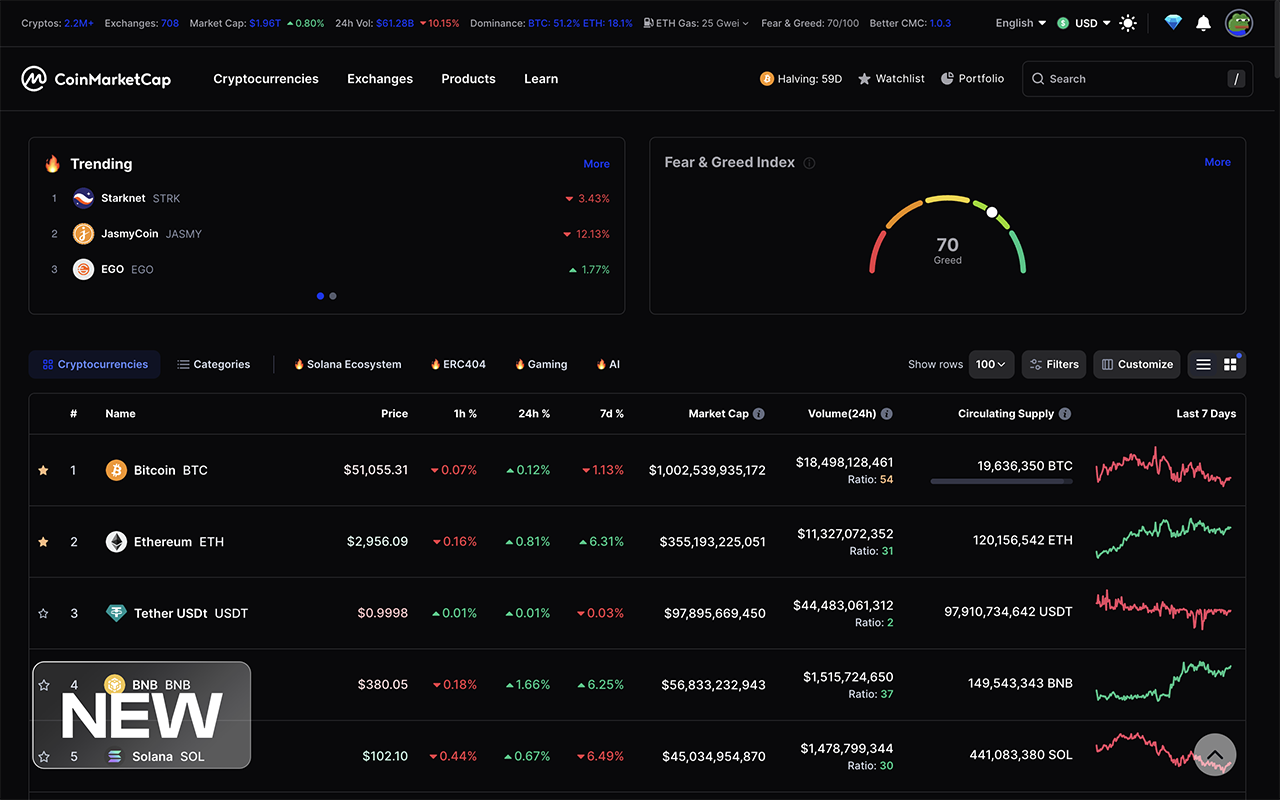
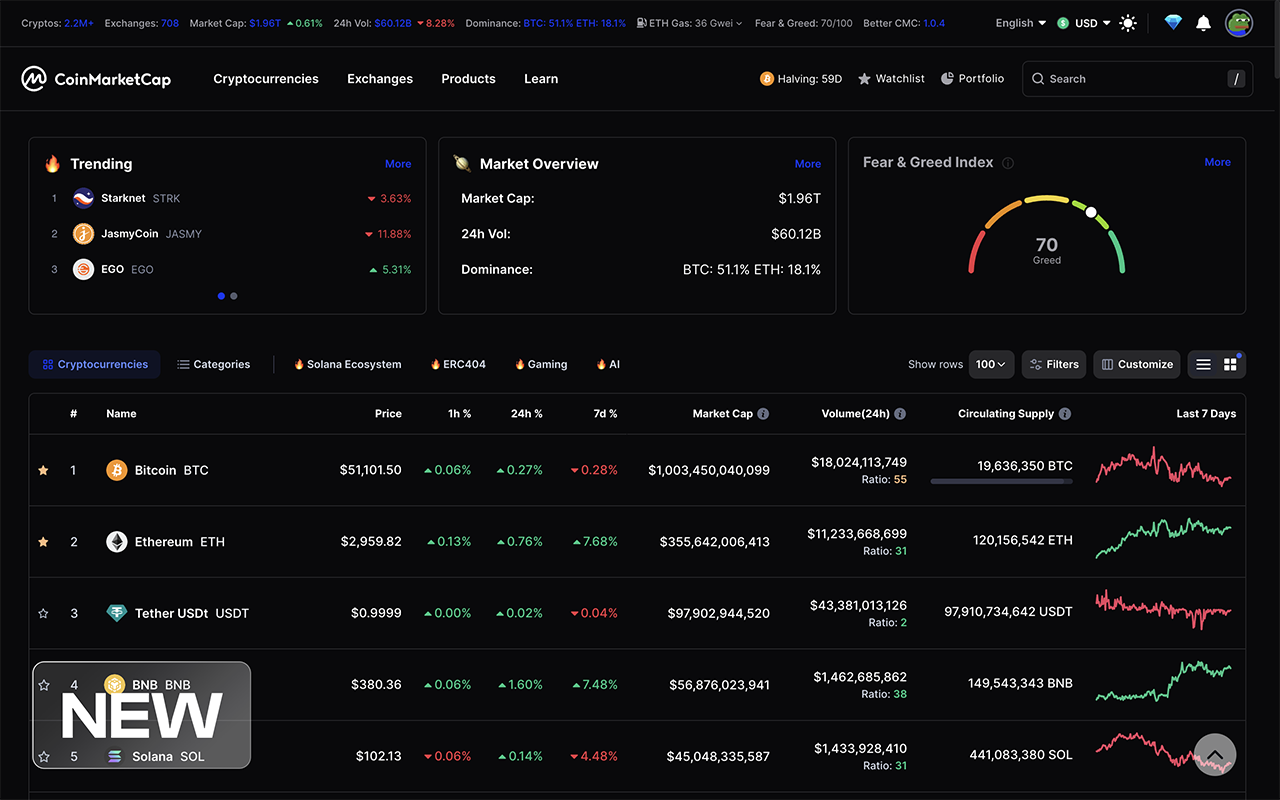
Adding market overview card

diff --git a/cards.js b/cards.js
@@ -1,0 +1,115 @@
+(function() {
+    // Flags to prevent multiple initializations
+    let initialized = false;
+
+    // Unique function name to avoid conflicts
+    function uniqueCreateMarketOverviewExtensionV2() {
+        console.log('Attempting to initialize Market Overview Extension...');
+
+        // Function to hide the existing div and create the new structure
+        const updateMarketOverview = () => {
+            if (initialized) {
+                console.log('Market Overview Extension already initialized. Skipping...');
+                return;
+            }
+
+            const targetDiv = document.querySelector('.jSZydc .sc-1a5c8bdf-0.dyzKpp .sc-1a5c8bdf-1.aZNqQ');
+            if (targetDiv) {
+                console.log('Target div found. Proceeding with updates...');
+                // Mark as initialized to prevent future executions
+                initialized = true;
+
+                // Hide the existing div
+                targetDiv.style.display = 'none';
+
+                // Create new div structure
+                const newDiv = document.createElement('div');
+                newDiv.className = 'sc-1a5c8bdf-1 aZNqQ';
+                newDiv.innerHTML = `<div>
+                                        <div class="sc-61710cb6-0 fyYcGd">
+                                            <div class="card-title">
+                                                <span class="card-title-icon">🪐</span>
+                                                <span class="card-title-text">Market Overview</span>
+                                            </div>
+                                            <a href="/charts">
+                                                <span>More</span>
+                                            </a>
+                                        </div>
+                                        <div class="sc-c50d2aab-13 kilDhP card-1">
+                                            <div class="card-info-div">
+                                                <p class="sc-4984dd93-0 etDiuO card-info-p"></p>
+                                            </div>
+                                            <div class="card-data-div">
+                                                <span class="card-data-span .kilDhP .price-change"></span>
+                                            </div>
+                                        </div>
+                                        <div class="sc-c50d2aab-13 kilDhP card-2">
+                                            <div class="card-info-div">
+                                                <p class="sc-4984dd93-0 etDiuO card-info-p"></p>
+                                            </div>
+                                            <div class="card-data-div">
+                                                <span class="card-data-span .kilDhP .price-change"></span>
+                                            </div>
+                                        </div>
+                                        <div class="sc-c50d2aab-13 kilDhP card-3">
+                                            <div class="card-info-div">
+                                                <p class="sc-4984dd93-0 etDiuO card-info-p"></p>
+                                            </div>
+                                            <div class="card-data-div">
+                                                <span class="card-data-span .kilDhP .price-change"></span>
+                                            </div>
+                                        </div>
+                                    </div>`;
+
+                // Insert the new div after the hidden one
+                targetDiv.parentNode.insertBefore(newDiv, targetDiv.nextSibling);
+
+                // Fetch and populate data from the header
+                const statItems = document.querySelectorAll('.sc-57ed43ab-1.dysfqt.global-stats .sc-f70bb44c-0.joWCPb.glo-stat-item');
+                const cards = newDiv.querySelectorAll('.sc-c50d2aab-13.kilDhP');
+                [2, 3, 4].forEach((index, i) => { // Adjusted to 0-based indexing
+                    if (statItems[index]) {
+                        const text = statItems[index].querySelector('.sc-f70bb44c-0.jNqpFI.base-text').innerText;
+                        let data;
+                        // Check if the data is directly in an <a> tag or within a <div> first
+                        const directA = statItems[index].querySelector('a');
+                        const divWrappedA = statItems[index].querySelector('.sc-59e437b5-2.hRcdAX a');
+                        if (directA && !divWrappedA) {
+                            data = directA.innerText;
+                        } else if (divWrappedA) {
+                            data = divWrappedA.innerText;
+                        }
+
+                        if (data) { // Ensure data is available before attempting to populate
+                            cards[i].querySelector('.card-info-p').innerText = text;
+                            cards[i].querySelector('.card-data-span').innerText = data;
+                            console.log(`Card ${i+1} populated with data.`);
+                        } else {
+                            console.log(`Data for card ${i+1} not found.`);
+                        }
+                    }
+                });
+            } else {
+                console.log('Target div not found. Waiting...');
+            }
+        };
+
+        // MutationObserver to wait for the page to load the required divs
+        const observer = new MutationObserver((mutations, obs) => {
+            if (!initialized) {
+                updateMarketOverview();
+            } else {
+                console.log('Initialization complete. Disconnecting observer...');
+                obs.disconnect(); // Stop observing after initialization is complete
+            }
+        });
+
+        observer.observe(document.body, {
+            childList: true,
+            subtree: true
+        });
+    }
+
+    // Execute the function
+    uniqueCreateMarketOverviewExtensionV2();
+})();

diff --git a/styles.css b/styles.css
@@ -12,14 +12,23 @@
   }
 
   /* remove community crap from home */
-
+/*
   .jSZydc {
-    display: none !important;
+    display: none !important; 
   }
 
   .jWCyUp {
     width: 100% !important;
     max-width: 49% !important;
+  }
+*/
+
+  .jSZydc .keen-slider {
+    display: none !important;
+  }
+
+  .jSZydc .aZNqQ {
+    visibility: visible !important;
   }
 
   .sc-8b3d12a8-1.hDjzmZ.menu-item-2 {
@@ -106,14 +115,6 @@ body.NIGHT {
 
 body:not(.NIGHT) .jWCyUp, body:not(.NIGHT) .hptPYH, body:not(.NIGHT) .jSZydc, body:not(.NIGHT) .kGHtvD, body:not(.NIGHT) .hYGzGT, body:not(.NIGHT) .dxcftz.dxcftz, body:not(.NIGHT) .hDjzmZ:hover > .submenu, body:not(.NIGHT) .hDjzmZ:hover .multiSubmenu, .hptPYH.hptPYH {
   border: 1px solid var(--c-color-gray-200) !important;
-  box-shadow: none !important;
-  border-radius: .5rem !important;
-}
-
-
-body.NIGHT .jWCyUp, body.NIGHT .jSZydc, body.NIGHT .kGHtvD, body.NIGHT .hYGzGT, body.NIGHT .dxcftz.dxcftz, body.NIGHT .hDjzmZ:hover > .submenu, body.NIGHT .hDjzmZ:hover .multiSubmenu, .hptPYH.hptPYH{
-  background-color: var(--c-color-background-2) !important;
-  border: 1px solid var(--border-decrypt) !important;
   box-shadow: none !important;
   border-radius: .5rem !important;
 }

diff --git a/README.md b/README.md
@@ -1,22 +1,23 @@
 # Better CoinMarketCap Extension
 
-Enhance your CoinMarketCap experience with "Better CoinMarketCap," a Chrome extension that simplifies and improves the website's interface by removing ads, community sections filled with scams, and other unnecessary elements, and now including a feature to visually analyze the market cap to volume ratio of cryptocurrencies.
+Enhance your CoinMarketCap experience with "Better CoinMarketCap," a Chrome extension that simplifies and improves the website's interface by removing ads, community sections filled with scams, and other unnecessary elements. The latest update introduces a "Market Overview" card, replacing the problematic "Community" section with valuable insights into the total market cap, 24h volume, and BTC/ETH dominance.
 
 ## Features
 
 - **Clean Interface:** Experience CoinMarketCap without the clutter of community sections and ads.
+- **Market Overview Card:** Get a quick and informative overview of the market with the total market cap, 24h trading volume, and BTC/ETH dominance, directly on the homepage. This feature replaces the previous "Community" section that was prone to scams and viruses, ensuring a safer browsing experience.
 - **Market Cap to Volume Ratio:** Calculate and display the market cap to volume ratio for each cryptocurrency, with a color indicator to quickly identify if a crypto's market cap is inflated or if its volume is too low compared to its market cap. This feature helps in finding cryptocurrencies that may have an inflated market cap, providing a valuable tool for better investment decisions.
 - **Modern Design:** Enjoy a modernized and intuitive design for easier navigation.
 - **Open Source:** Full transparency with an open-source codebase on GitHub.
 
 ## Screenshots
 
-Below are some before and after screenshots to give you a feel for the enhancements "Better CoinMarketCap" brings to your browsing experience, including the new market cap to volume ratio feature.
+Below are some before and after screenshots to give you a feel for the enhancements "Better CoinMarketCap" brings to your browsing experience, including the new "Market Overview" card.
 
 ### Homepage View
 Before | After
 :---:|:---:
-![Old Homepage](images/1-old.png) | ![New Homepage](images/1-new.png)
+![Old Homepage](images/1-old.png) | ![New Homepage with Market Overview](images/1-new.png)
 
 ### Coin Page View
 Before | After
@@ -29,7 +30,7 @@ To install "Better CoinMarketCap," simply add the extension to your Chrome brows
 
 ## Usage
 
-Once installed, the extension will automatically apply the new styles and functionalities to CoinMarketCap.com. There's no need for any additional setup or configuration.
+Once installed, the extension will automatically apply the new styles and functionalities to CoinMarketCap.com, including the "Market Overview" card. There's no need for any additional setup or configuration.
 
 ## Support
 
@@ -49,4 +50,4 @@ This Chrome extension is not affiliated with, endorsed, or sponsored by CoinMark
 
 ---
 
-Enjoy a better CoinMarketCap with less noise and more focus on the data that matters to you, including insightful analysis on market cap and volume ratios.
+Enjoy a better CoinMarketCap with less noise and more focus on the data that matters to you, including insightful analysis on market cap and volume ratios, and a safer browsing experience with the new "Market Overview" card.
